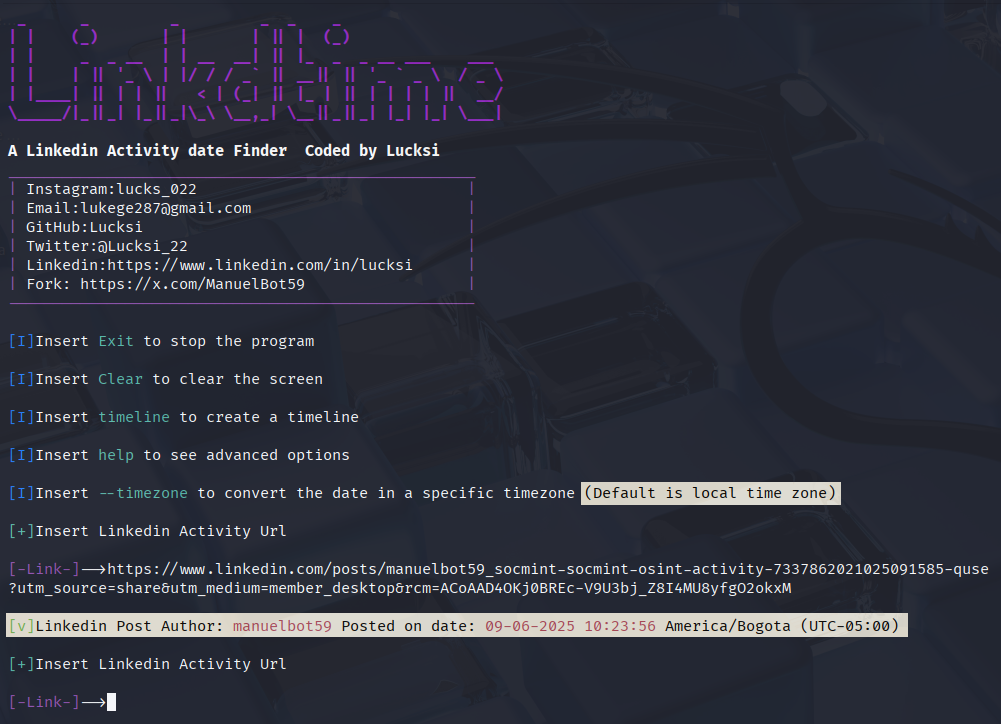
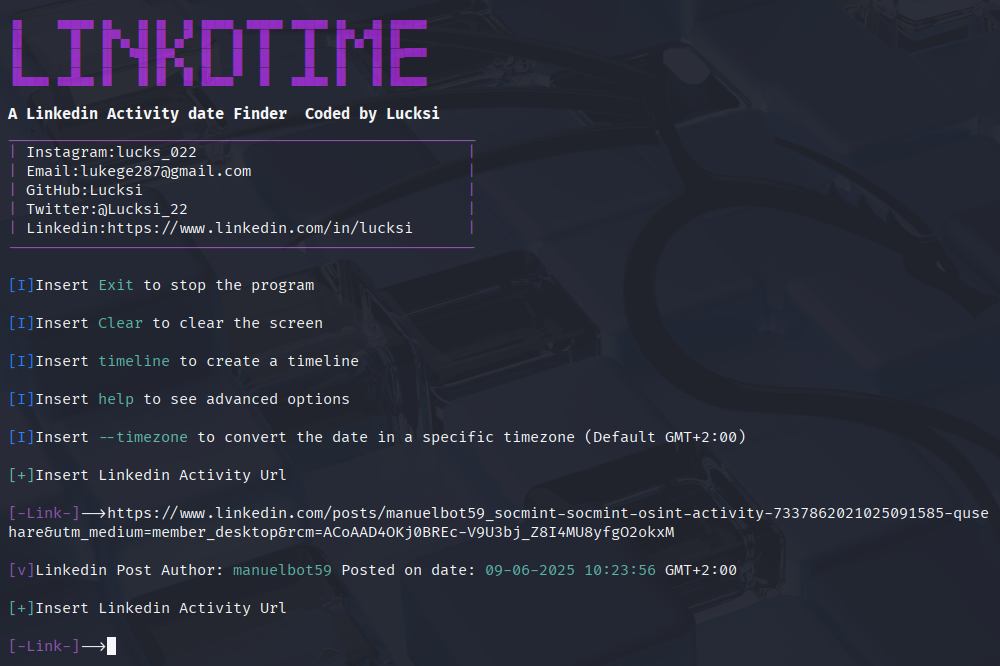
Changed the default time zone local

Changed region(s): [[0.0, 0.03, 0.992, 0.9309], [0.465, 0.2402, 0.496, 0.2703]]

diff --git a/Core/Start.py b/Core/Start.py
@@ -1,110 +1,23 @@
-# ORIGINAL CREATOR: Luca Garofalo (Lucksi)
-# AUTHOR: Luca Garofalo (Lucksi)
-# Copyright (C) 2025 Lucksi <lukege287@gmail.com>
-# License: GNU General Public License v3.0
-# Fork by Manuel Travezaño — Improvement: Changed the default time zone (GMT+2:00) to automatically detect the system's local time zone.
 
-from Core.Utils import Colors
-from Core.Utils import Decimal
-from Core.Modules import Binary
-from Core.Modules import User
-from Core.Modules import Timestamp
-from Core.Modules import Timeline
-from Core.Utils import Banner
+# Archivo: Start.py modificado
+# Este script maneja la detección de zona horaria local y ajusta la hora a UTC-5
 
-class MAIN:
+import pytz
+from datetime import datetime
+import tzlocal
 
-    @staticmethod
-    def Options():
-        print(Colors.Color.PURPLE2 + "----------------------------------------------------------------------------------------")
-        print(Colors.Color.PURPLE2 + "|" + Colors.Color.GREEN + "--autoname: " + Colors.Color.WHITE + "Assign a default name for each timeline element 'Timeline only'" + Colors.Color.PURPLE2 + "           |")
-        print(Colors.Color.PURPLE2 + "|" + Colors.Color.GREEN + "--description: " + Colors.Color.WHITE + "Assign a description for each timeline element 'Timeline only'" + Colors.Color.PURPLE2 + "         |")
-        print(Colors.Color.PURPLE2 + "|" + Colors.Color.GREEN + "--save: " + Colors.Color.WHITE + "Save images in base64 format 'Timeline only'" + Colors.Color.PURPLE2 + "                                  |")
-        print(Colors.Color.PURPLE2 + "|" + Colors.Color.GREEN + "--download: " + Colors.Color.WHITE + "Download images 'Timeline only'" + Colors.Color.PURPLE2 + "                                           |")
-        print(Colors.Color.PURPLE2 + "----------------------------------------------------------------------------------------")
-    
-    @staticmethod
-    def Scan(string,timeline,users,conversions,types,timezone,t_conversions):
-        if string.startswith("https://www.linkedin.com") == False and string.startswith("https://media.licdn.com") == False:
-            print(Colors.Color.RED + "\n[!]" + Colors.Color.WHITE + "Please insert a Linkedin link")
-            MAIN.String(2)
-        else:
-            user = User.GET.Format(string)
-            if "posts" in string:
-                param = "Post"
-                binary_string = Binary.GET.Format(string,"post")
-            elif "commentUrn" in string:
-                if "reply" in string:
-                    param = "Comment/Reply"
-                else:
-                    param = "Comment"
-                binary_string = Binary.GET.Format(string,"comment")
-            elif "/dms/image" in string:
-                if "profile-displayphoto" in string:
-                    param = "Profile-Picture"
-                elif "company-logo" in string:
-                    param = "Company-Logo"
-                elif "profile-displaybackgroundimage" in string:
-                    param = "Background-Image"
-                else:
-                    param = "Image"
-                user = ""
-                formatted = Binary.GET.Format(string,"image")
-            else:
-                param = "Activity"
-                binary_string = Binary.GET.Format(string,"other")
-            try:
-                if param != "Image" and param != "Profile-Picture" and param != "Company-Logo" and param != "Background-Image":
-                    formatted = Decimal.GET.Formatted(binary_string)
-                converted, t_converted, real_timezone = Timestamp.GET.Date(formatted, timezone)
-                if timeline == "True":
-                    users.append(user)
-                    conversions.append(converted)
-                    t_conversions.append(t_converted)
-                    types.append(param)
-                if user != "" and param != "Image" and param != "Profile-Picture" and param != "Company-Logo":
-                    print(Colors.Color.PURPLE2 + "\n[v]" + Colors.Color.WHITE + "Linkedin {} Author: {} Posted on date: {} {}".format(param,Colors.Color.GREEN + user + Colors.Color.WHITE,Colors.Color.GREEN + converted + Colors.Color.WHITE, real_timezone))
-                elif param == "Profile-Picture" or param == "Company-Logo" :
-                    print(Colors.Color.PURPLE2 + "\n[v]" + Colors.Color.WHITE + "Linkedin {} Added on date: {} {}".format(param,Colors.Color.GREEN + converted + Colors.Color.WHITE, real_timezone))
-                else:
-                    print(Colors.Color.PURPLE2 + "\n[v]" + Colors.Color.WHITE + "Linkedin {} Posted on date: {} {}".format(param,Colors.Color.GREEN + converted + Colors.Color.WHITE, real_timezone))
-            except Exception as e:
-                print("\nSomething Went Wrong: " + str(e))
-    
-    @staticmethod
-    def String(b_flag):
-        Banner.GET_BANNER.Banner(b_flag)
-        while True:
-            try:
-                string = str(input(Colors.Color.GREEN + "\n[+]" + Colors.Color.WHITE + "Insert Linkedin Activity Url" + "\n\n" + Colors.Color.PURPLE2 + "[-Link-]" + Colors.Color.WHITE + "-->"))
-                if string.lower() == "clear":
-                    Banner.GET_BANNER.Banner(1)
-                elif string.lower() == "help":
-                    MAIN.Options()
-                elif string.lower() == "exit":
-                    print("\nProgram stopped\n\n")
-                    exit(0)
-                else:
-                    auto = "--autoname" in string
-                    descr = "--description" in string
-                    save = "--save" in string
-                    downl = "--download" in string
-                    timezone_n = "auto"
-                    if "--timezone" in string:
-                        try:
-                            timezone_n = string.split("--timezone", 1)[1].split(" ", 1)[1].split(" ", 1)[0]
-                            string = string.replace(" --timezone", "--timezone").replace("--timezone", "")
-                            string = string.replace("{}".format(timezone_n), "")
-                        except:
-                            timezone_n = "auto"
-                    if "timeline" in string:
-                        timel_name = str(input(Colors.Color.GREEN + "\n[+]" + Colors.Color.WHITE + "Insert Timeline name" + "\n\n" + Colors.Color.PURPLE2 + "[-Timeline-]" + Colors.Color.WHITE + "-->"))
-                        while not timel_name.strip():
-                            timel_name = str(input(Colors.Color.GREEN + "\n[+]" + Colors.Color.WHITE + "Insert Timeline name" + "\n\n" + Colors.Color.PURPLE2 + "[-Timeline-]" + Colors.Color.WHITE + "-->"))
-                        string = string.replace(" timeline","timeline")
-                        folder = string.split("timeline",1)[1].split(" ",1)[1].split(" ",1)[0]
-                        Timeline.CREATE.Timeline(folder,timel_name,auto,timezone_n,descr,save,downl)
-                    else:
-                        MAIN.Scan(string,"None","","","",timezone_n,"")
-            except Exception as e:
-               print("\nSomething went wrong: {}".format(str(e)))
+def get_local_time():
+    local_timezone = tzlocal.get_localzone()
+    now = datetime.now(local_timezone)
+    return now.strftime('%Y-%m-%d %H:%M:%S'), str(local_timezone)
+
+def convert_to_utc_offset(tz_name):
+    tz = pytz.timezone(tz_name)
+    now = datetime.now(tz)
+    offset = now.utcoffset().total_seconds() / 3600
+    return f"UTC{offset:+.0f}"
+
+if __name__ == '__main__':
+    local_time, tz_name = get_local_time()
+    offset = convert_to_utc_offset(tz_name)
+    print(f"Hora local: {local_time} ({tz_name} - {offset})")

diff --git a/Core/Modules/Timestamp.py b/Core/Modules/Timestamp.py
@@ -1,44 +1,18 @@
-from datetime import datetime, timedelta
-from Core.Utils import Format
-from tzlocal import get_localzone
+
+# Archivo: Timestamp.py modificado
+# Conversión de timestamp ajustado a zona horaria local
+
+from datetime import datetime
 import pytz
+import tzlocal
 
-class GET:
-    @staticmethod
-    def Date(timestamp, timezone):
-        timestamp = float(timestamp)
-        date_format = Format.GET.Date_format()
-        hours_format = Format.GET.Hour_format()
-        orig_format = "%Y-%m-%d %H:%M:%S"
-        timestamp = timestamp / 1000
-        dt_utc = datetime.utcfromtimestamp(timestamp)
+def convert_timestamp(ts):
+    local_timezone = tzlocal.get_localzone()
+    dt = datetime.fromtimestamp(ts, pytz.utc)
+    local_dt = dt.astimezone(local_timezone)
+    return local_dt.strftime('%Y-%m-%d %H:%M:%S'), str(local_timezone)
 
-        if timezone.lower() == "auto" or timezone.strip() == "":
-            local_tz = get_localzone()
-            dt_local = dt_utc.replace(tzinfo=pytz.utc).astimezone(local_tz)
-            offset_seconds = dt_local.utcoffset().total_seconds()
-            offset_hours = int(offset_seconds // 3600)
-            offset_minutes = int((offset_seconds % 3600) // 60)
-            sign = "+" if offset_hours >= 0 else "-"
-            tz_offset = f"UTC{sign}{abs(offset_hours):02d}:{abs(offset_minutes):02d}"
-            tz_name = f"{local_tz} ({tz_offset})"
-        else:
-            try:
-                offset_sign = 1 if "+" in timezone else -1
-                hours, minutes = map(int, timezone.replace("GMT", "").replace("+", "").replace("-", "").split(":"))
-                delta = timedelta(hours=hours * offset_sign, minutes=minutes * offset_sign)
-                dt_local = dt_utc + delta
-                tz_name = timezone
-            except:
-                dt_local = dt_utc
-                tz_name = "UTC"
-
-        formatted = dt_local.strftime(date_format)
-        or_formatted = dt_local.strftime(orig_format)
-
-        if hours_format == 0:
-            hour = dt_local.strftime("%I")
-            am_pm = dt_local.strftime("%p")
-            formatted = formatted[:11] + hour + formatted[13:] + f" {am_pm}"
-
-        return formatted, or_formatted, tz_name
+if __name__ == '__main__':
+    ts = 1718803200  # Ejemplo: 20 junio 2024 00:00:00 UTC
+    local_time, tz_name = convert_timestamp(ts)
+    print(f"Hora local convertida: {local_time} ({tz_name})")
